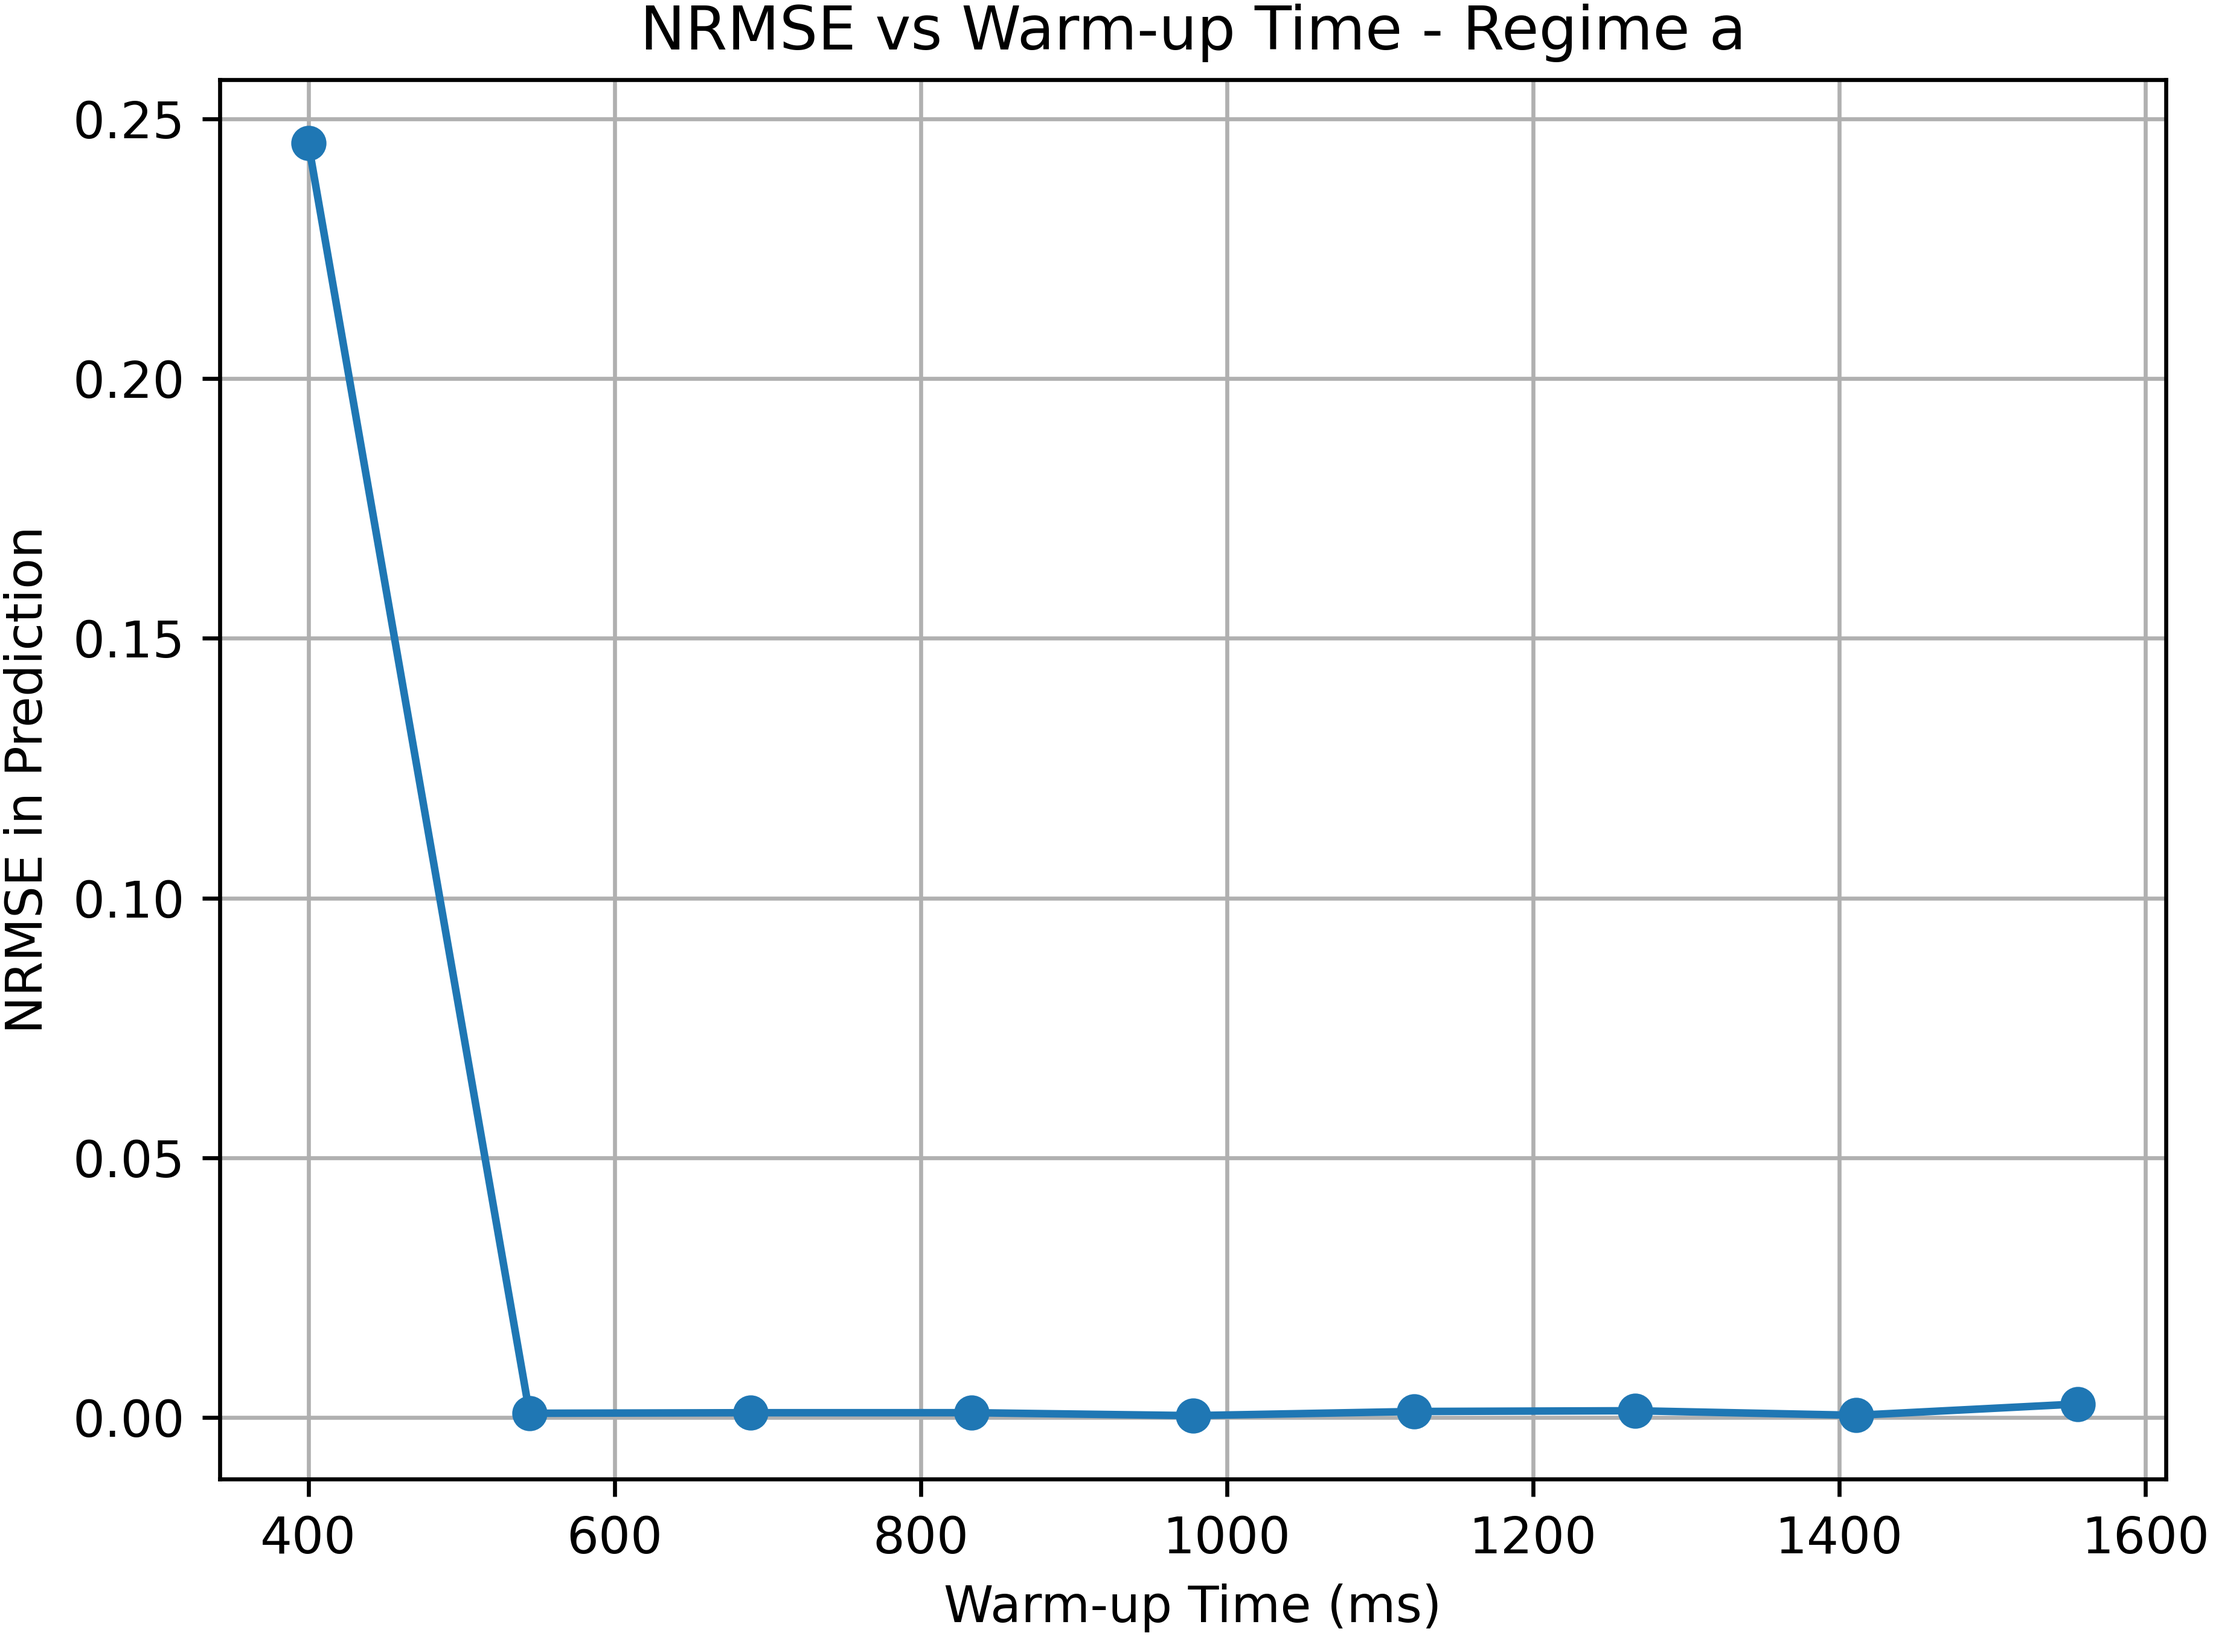
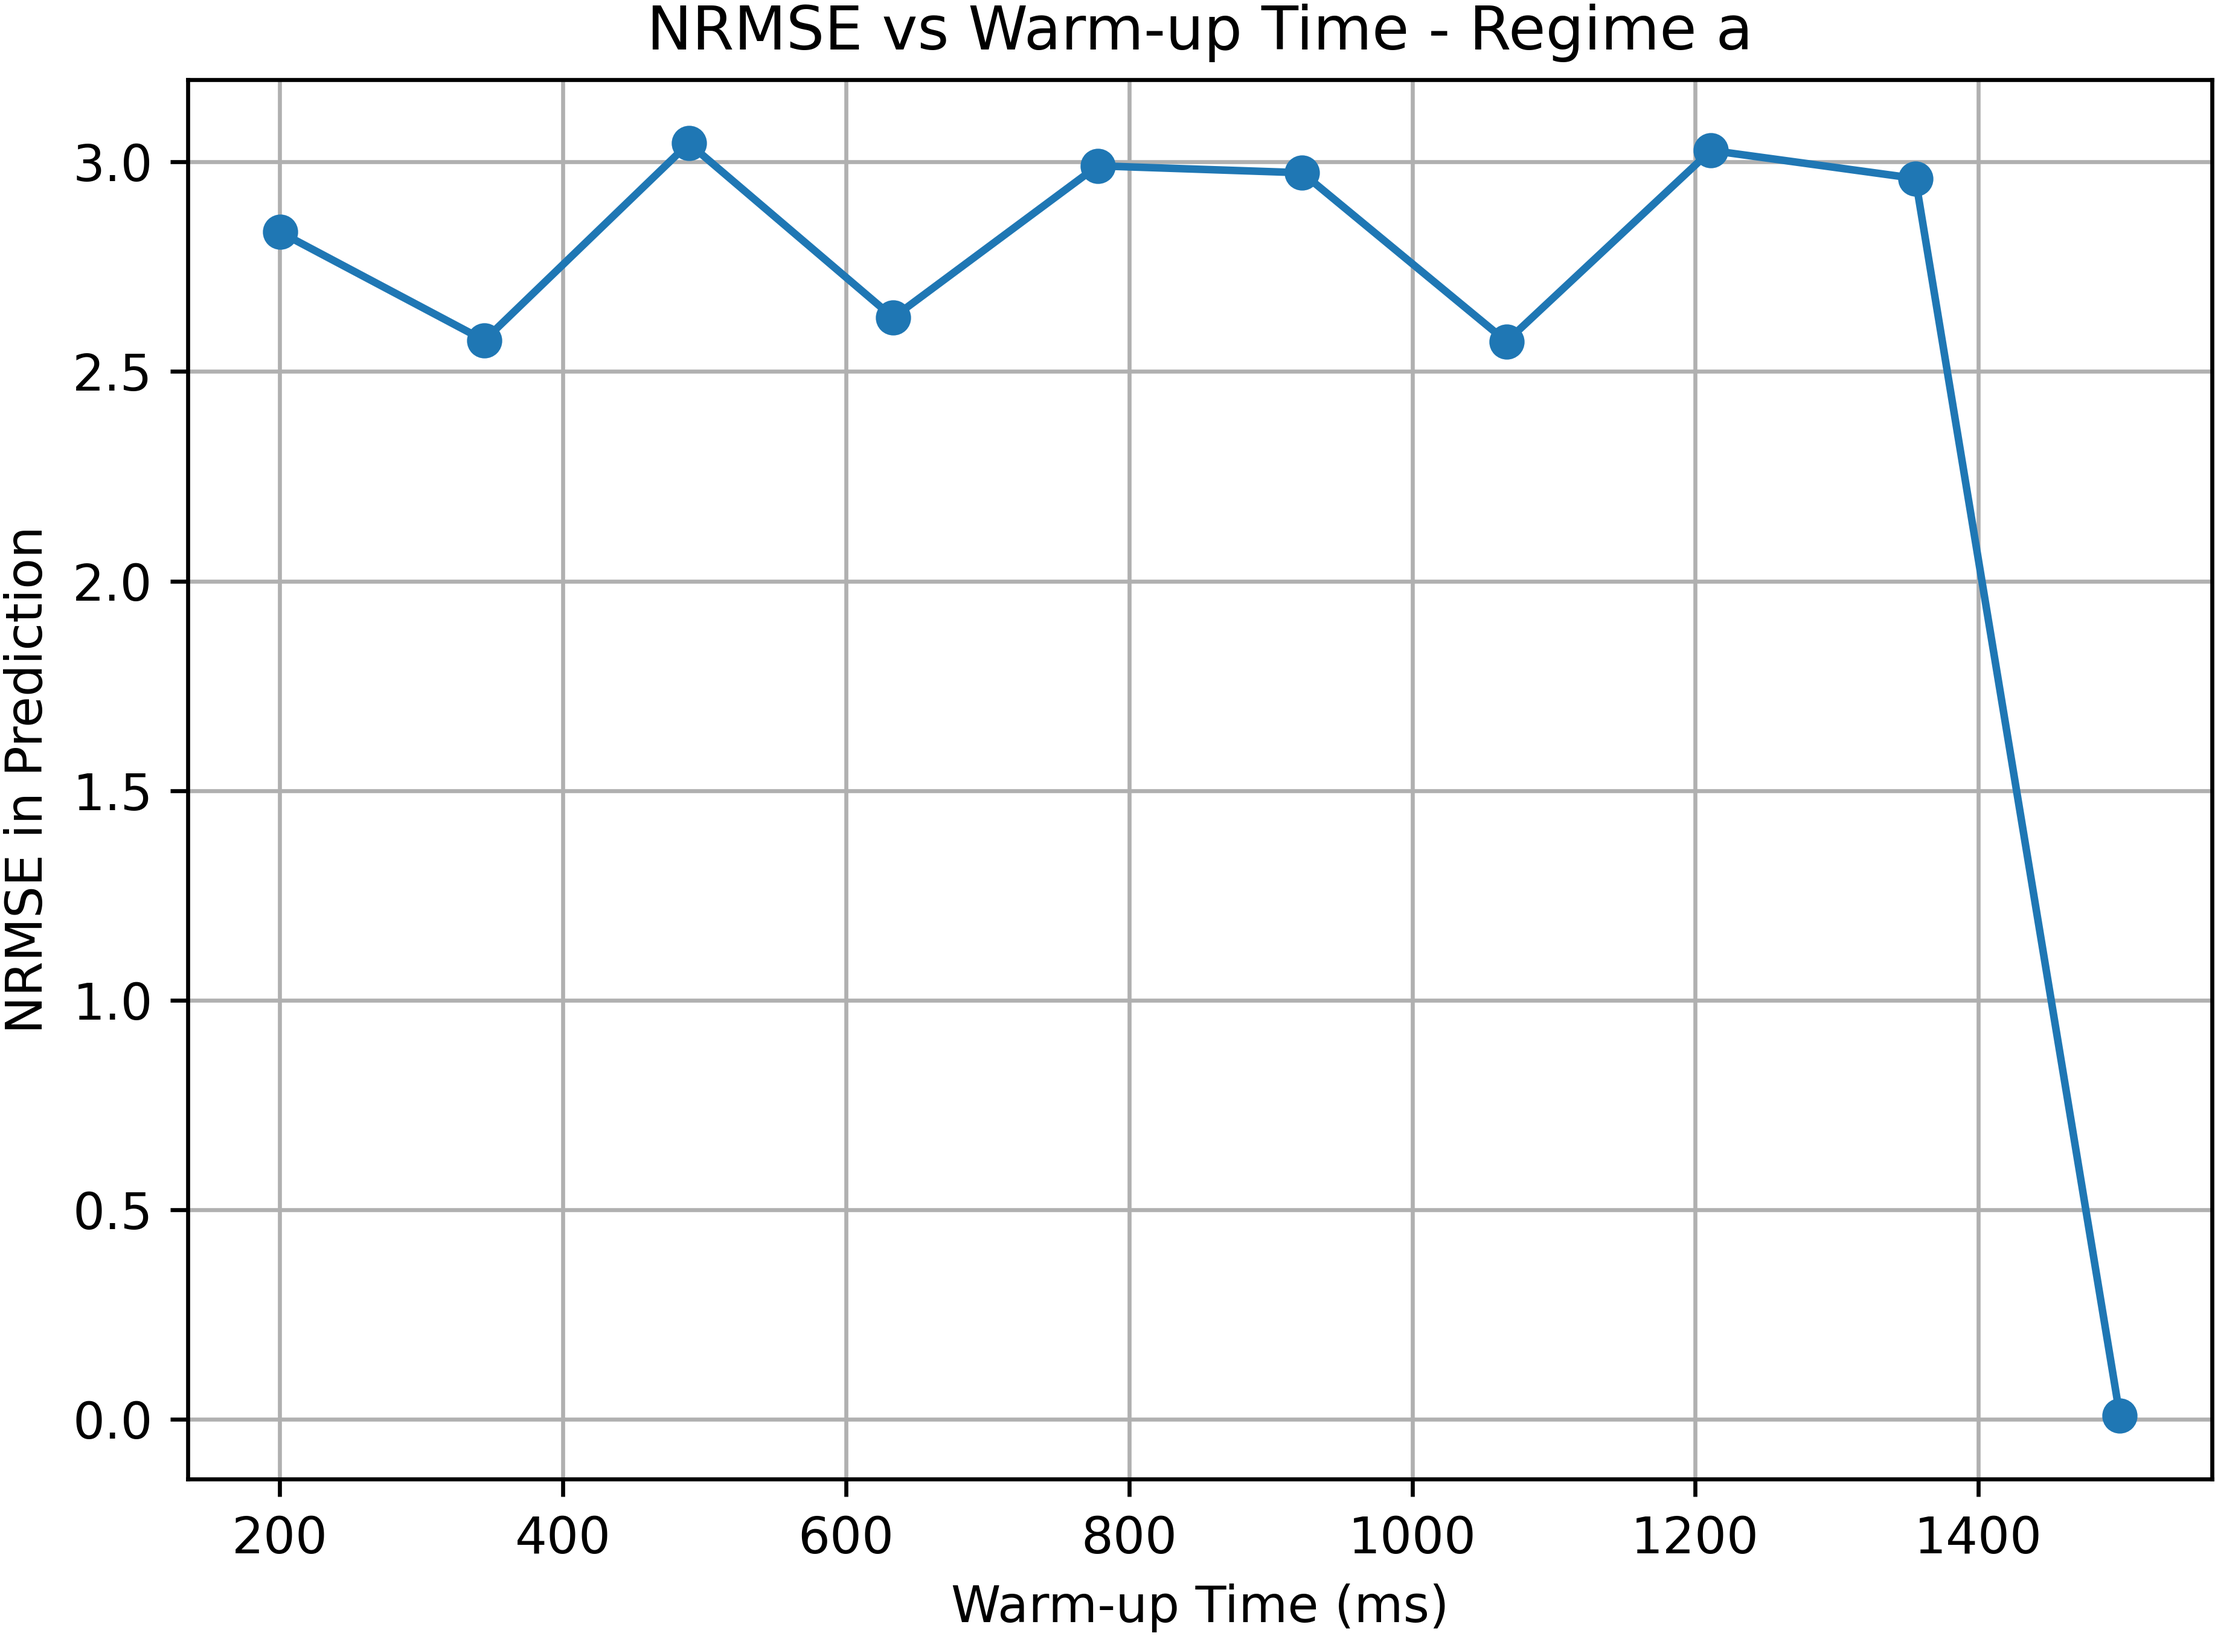
corrected esn

diff --git a/B2/Prob-B-2.py b/B2/Prob-B-2.py
@@ -30,47 +30,48 @@ def main():
     #optimized_params = load_params()
     
     optimized_params = {
-        "a" : { 'Nres':760, 'p':0.2, 'alpha':0.7, 'rho':0.9 },
-        "b" : { 'Nres':920, 'p':0.2, 'alpha':0.9, 'rho':0.75 }, 
-        "c" : { 'Nres':450, 'p':0.2, 'alpha':0.7, 'rho':1.05 },
-        "e" : { 'Nres':300, 'p':0.2, 'alpha':0.5, 'rho':1.05 } 
+        #"a" : { 'Nres':760, 'p':0.2, 'alpha':0.7, 'rho':0.9 }
+        "a" : { 'Nres':1500, 'p':0.67, 'alpha':0.7, 'rho':1.2 }
+        #"b" : { 'Nres':920, 'p':0.2, 'alpha':0.9, 'rho':0.75 }, 
+        #"c" : { 'Nres':450, 'p':0.2, 'alpha':0.7, 'rho':1.05 },
+        #"e" : { 'Nres':300, 'p':0.2, 'alpha':0.5, 'rho':1.05 } 
     }
     
     warmup_times = {}
     
-    for label in tqdm(['a', 'b', 'c', 'e'], desc="Subtasks"):
+    for label in tqdm(['a'], desc="Subtasks"):#, 'b', 'c', 'e'], desc="Subtasks"):
         params = optimized_params[label]
+        esn = ESN(Nres=params['Nres'], p=params['p'], alpha=params['alpha'], rho=params['rho'])
         
         data = np.asarray(all_data[label]['x']).flatten()
-        #data = data[Tt:]
+        data = data[Tt:]
+        N_train = int(train_fraction * len(data))
         
-        #N_train = int(train_fraction * len(data))
+        scaler = StandardScaler()
+        data_normalized = scaler.fit_transform(data.reshape(-1, 1)).flatten()
         
-        warmup_points = np.linspace(Tt + 1, len(data) - 2, 10, dtype=int)
+        inputs = data_normalized[:-1]
+        targets = data_normalized[1:]
+        
+        u_train = inputs[:N_train]
+        y_train = targets[:N_train]
+        
+        esn.train(u_train, y_train)
         
         nrmse_pred_list = []
+        warmup_points = np.linspace(1, len(inputs) - 2, 10, dtype=int)
         for N_warmup in tqdm(warmup_points, desc="Warmup points"):
-            esn = ESN(Nres=params['Nres'], p=params['p'], alpha=params['alpha'], rho=params['rho'])
+            esn_ = esn.copy()
             
-            scaler = StandardScaler()
-            data_normalized = scaler.fit_transform(data.reshape(-1, 1)).flatten()
+            u_warmup = inputs[:N_warmup]
+            y_autonomous = targets[N_warmup:]
             
-            inputs = data_normalized[:-1]
-            targets = data_normalized[1:]
-            
-            u_train = inputs[:N_warmup]
-            y_train = targets[:N_warmup]
-            u_predict = inputs[N_warmup:]
-            y_predict = targets[N_warmup:]
-            
-            esn.train(u_train, y_train, warmup=Tt)
-            predictions_normalized, _ = esn.predict(u_predict)
+            predictions_normalized, _ = esn_.predict(u_warmup, n_autonomous=len(y_autonomous))
             
             predictions = scaler.inverse_transform(predictions_normalized)
+            true_values = scaler.inverse_transform(y_autonomous)
             
-            true_values = scaler.inverse_transform(y_predict)
-            nrmse = esn.calculate_nrmse(true_values, predictions)
-            
+            nrmse = esn_.calculate_nrmse(true_values, predictions)
             nrmse_pred_list.append(nrmse)
         
         nrmse_pred_list = np.asarray(nrmse_pred_list)

diff --git a/ESN_new.py b/ESN_new.py
@@ -2,6 +2,7 @@ from sklearn.linear_model import Ridge
 import networkx as nx
 from sklearn.metrics import mean_squared_error
 import numpy as np
+from copy import deepcopy
 
 seed = 42
 np.random.seed(seed)
@@ -18,13 +19,26 @@ class ESN:
         self.p = p
         self.Win = np.random.uniform(-0.5, 0.5, (Nres, 1))
         graph = nx.erdos_renyi_graph(Nres, p, directed=True)
+        for node in graph.nodes():
+            if np.random.random() < p:
+                graph.add_edge(node, node)
         Wres = nx.to_numpy_array(graph)
+        Wres = np.where(Wres > 0, np.random.uniform(-1, 1, Wres.shape), Wres)
         eigenvalues = np.linalg.eigvals(Wres)
         spectral_radius = np.max(np.abs(eigenvalues))
         self.Wres = (Wres / spectral_radius) * rho
         self.r = np.zeros((Nres, 1))
         self.Wout = None
         self.ridge = Ridge(alpha=1e-6, fit_intercept=False)
+    
+    def copy(self):
+        copy = object.__new__(self.__class__)
+        for attr, val in self.__dict__.items():
+            if isinstance(val, np.ndarray):
+                setattr(copy, attr, val.copy())
+            else:
+                setattr(copy, attr, deepcopy(val))
+        return copy
     
     def update_reservoir(self, u):
         self.r = (1.0 - self.alpha) * self.r + self.alpha * np.tanh(
@@ -38,36 +52,42 @@ class ESN:
         nrmse = rmse / np.std(y_true)
         return nrmse
     
-    def train(self, u, y, warmup=1000):
-        # Ensure warmup < len(u)
-        warmup = min(warmup, len(u)-1)
-
+    def train(self, u, y):
+        self.r = np.zeros((self.Nres, 1))
+        
         states = []
         for ut in u:
             r = self.update_reservoir(ut)
             states.append(r.flatten())
         states = np.array(states)
-
-        states = states[warmup:]
-        y = y[warmup:]
-
+        
         self.ridge.fit(states, y)
         self.Wout = self.ridge.coef_
-
+        
         # Compute NRMSE on training data
         y_pred = self.ridge.predict(states)
         nrmse = self.calculate_nrmse(y, y_pred)
         return nrmse
     
-    def predict(self, u, y=None):
+    def predict(self, u_warmup, n_autonomous, y=None):
         self.r = np.zeros((self.Nres, 1))
+        
+        for ut in u_warmup:
+            self.update_reservoir(ut)
+        
+        ut = self.Wout @ self.r
         predictions = []
-        for ut in u:
+        
+        for _ in range(n_autonomous):
             r = self.update_reservoir(ut)
             y_pred = self.Wout @ r
-            predictions.append(y_pred.flatten())
+            predictions.append(y_pred)
+            ut = y_pred
+        
         predictions = np.array(predictions)
+        
         nrmse = None
         if y is not None:
             nrmse = self.calculate_nrmse(y, predictions)
+        
         return predictions, nrmse
